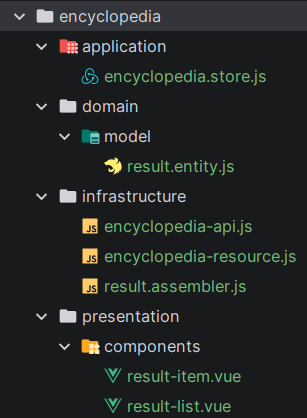
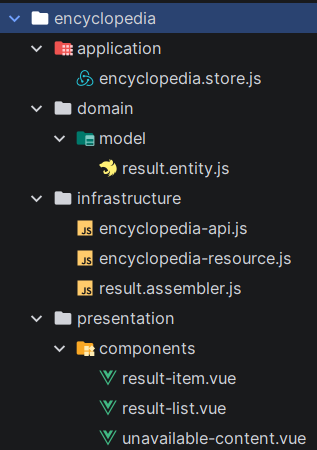
docs: add new images and update manual 5

Changed region(s): [[0.0, 0.0, 1.0, 0.9952], [0.1759, 0.8086, 0.2345, 0.8397]]

diff --git a/manual/MANUAL.md b/manual/MANUAL.md
@@ -1,5 +1,8 @@
 # Repaso PC1 (Basado en el examén pasado)
 
+Repositorio de base 1: https://github.com/GZ-99/Catch-Up-AplicacionesWeb2620/tree/master
+Repositorio de base 2: https://github.com/GZ-99/Learning-Center-AplicacionesWeb2620/tree/master
+
 ## CREAR PROYECTO:
 
 Para empezar, creas el proyecto de esta manera:
@@ -117,4 +120,20 @@ Al empezar, tienes que crear esta carpeta con esta estructura:
 Luego, desarrollas estos archivos:
 * Empiezas con el archivo entity, con su constructor y, por si acaso, sus getters.
 * Desarrollas los archivos "encyclopedia-api.js" y "result.assembler.js" (El archivo "encyclopedia-resource.js" se queda vacio, no preguntes)
-* 
+* Se debe desarrollar el archivo "encyclopedia.store.js"
+
+Finalmente, en la carpeta "presentation/components", desarrollas los archivos de esta forma:
+* En el archivo "unavailable-content.vue", haces un copia y pega y cambias solo un texto:<br>
+<img src="imagenes/presentation1.png">
+* Después, en el archivo "result-item.js" se desarrolla de esta forma:<br>
+<img src="imagenes/caso-p5.png">
+<img src="imagenes/item1.png">
+<img src="imagenes/item2.png">
+<img src="imagenes/item3.png">
+<img src="imagenes/item4.png">
+* Finalmente, se desarrolla el archivo "result-list.vue", haces un copia y pega y cambias algunos textos:<br>
+<img src="imagenes/presentation2.png">
+
+### TERMINAR PROYECTO
+
+
